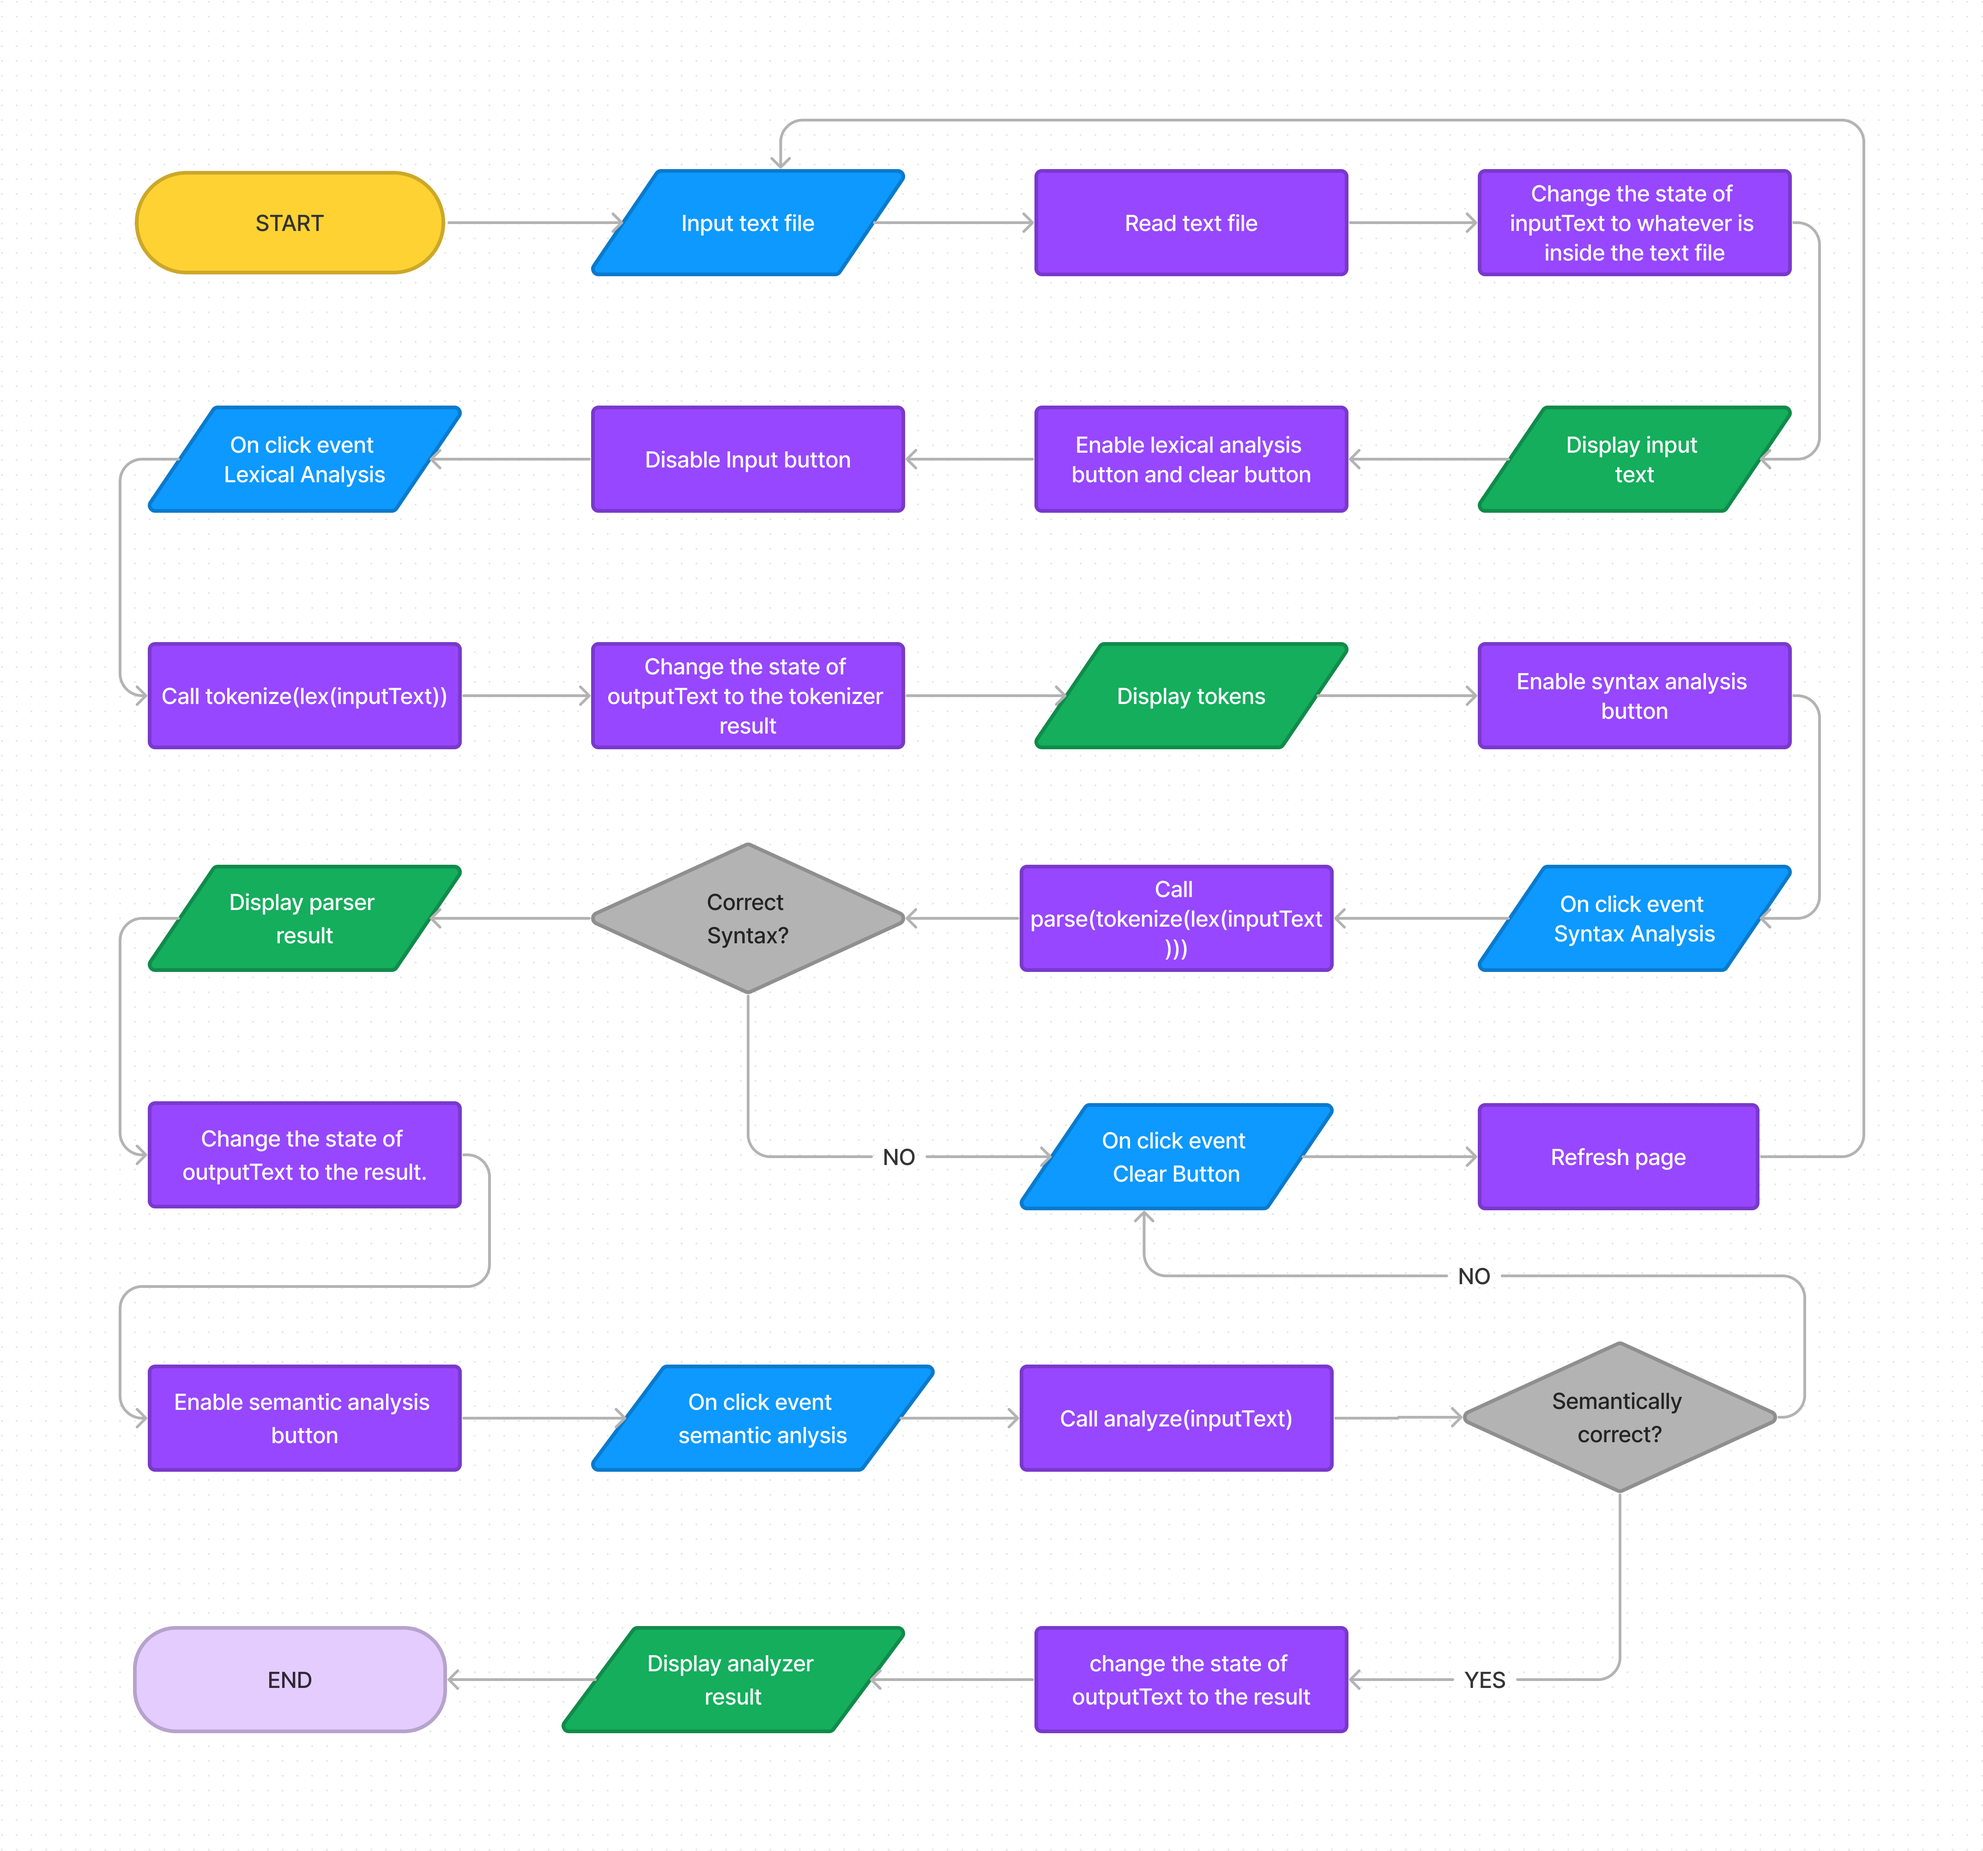
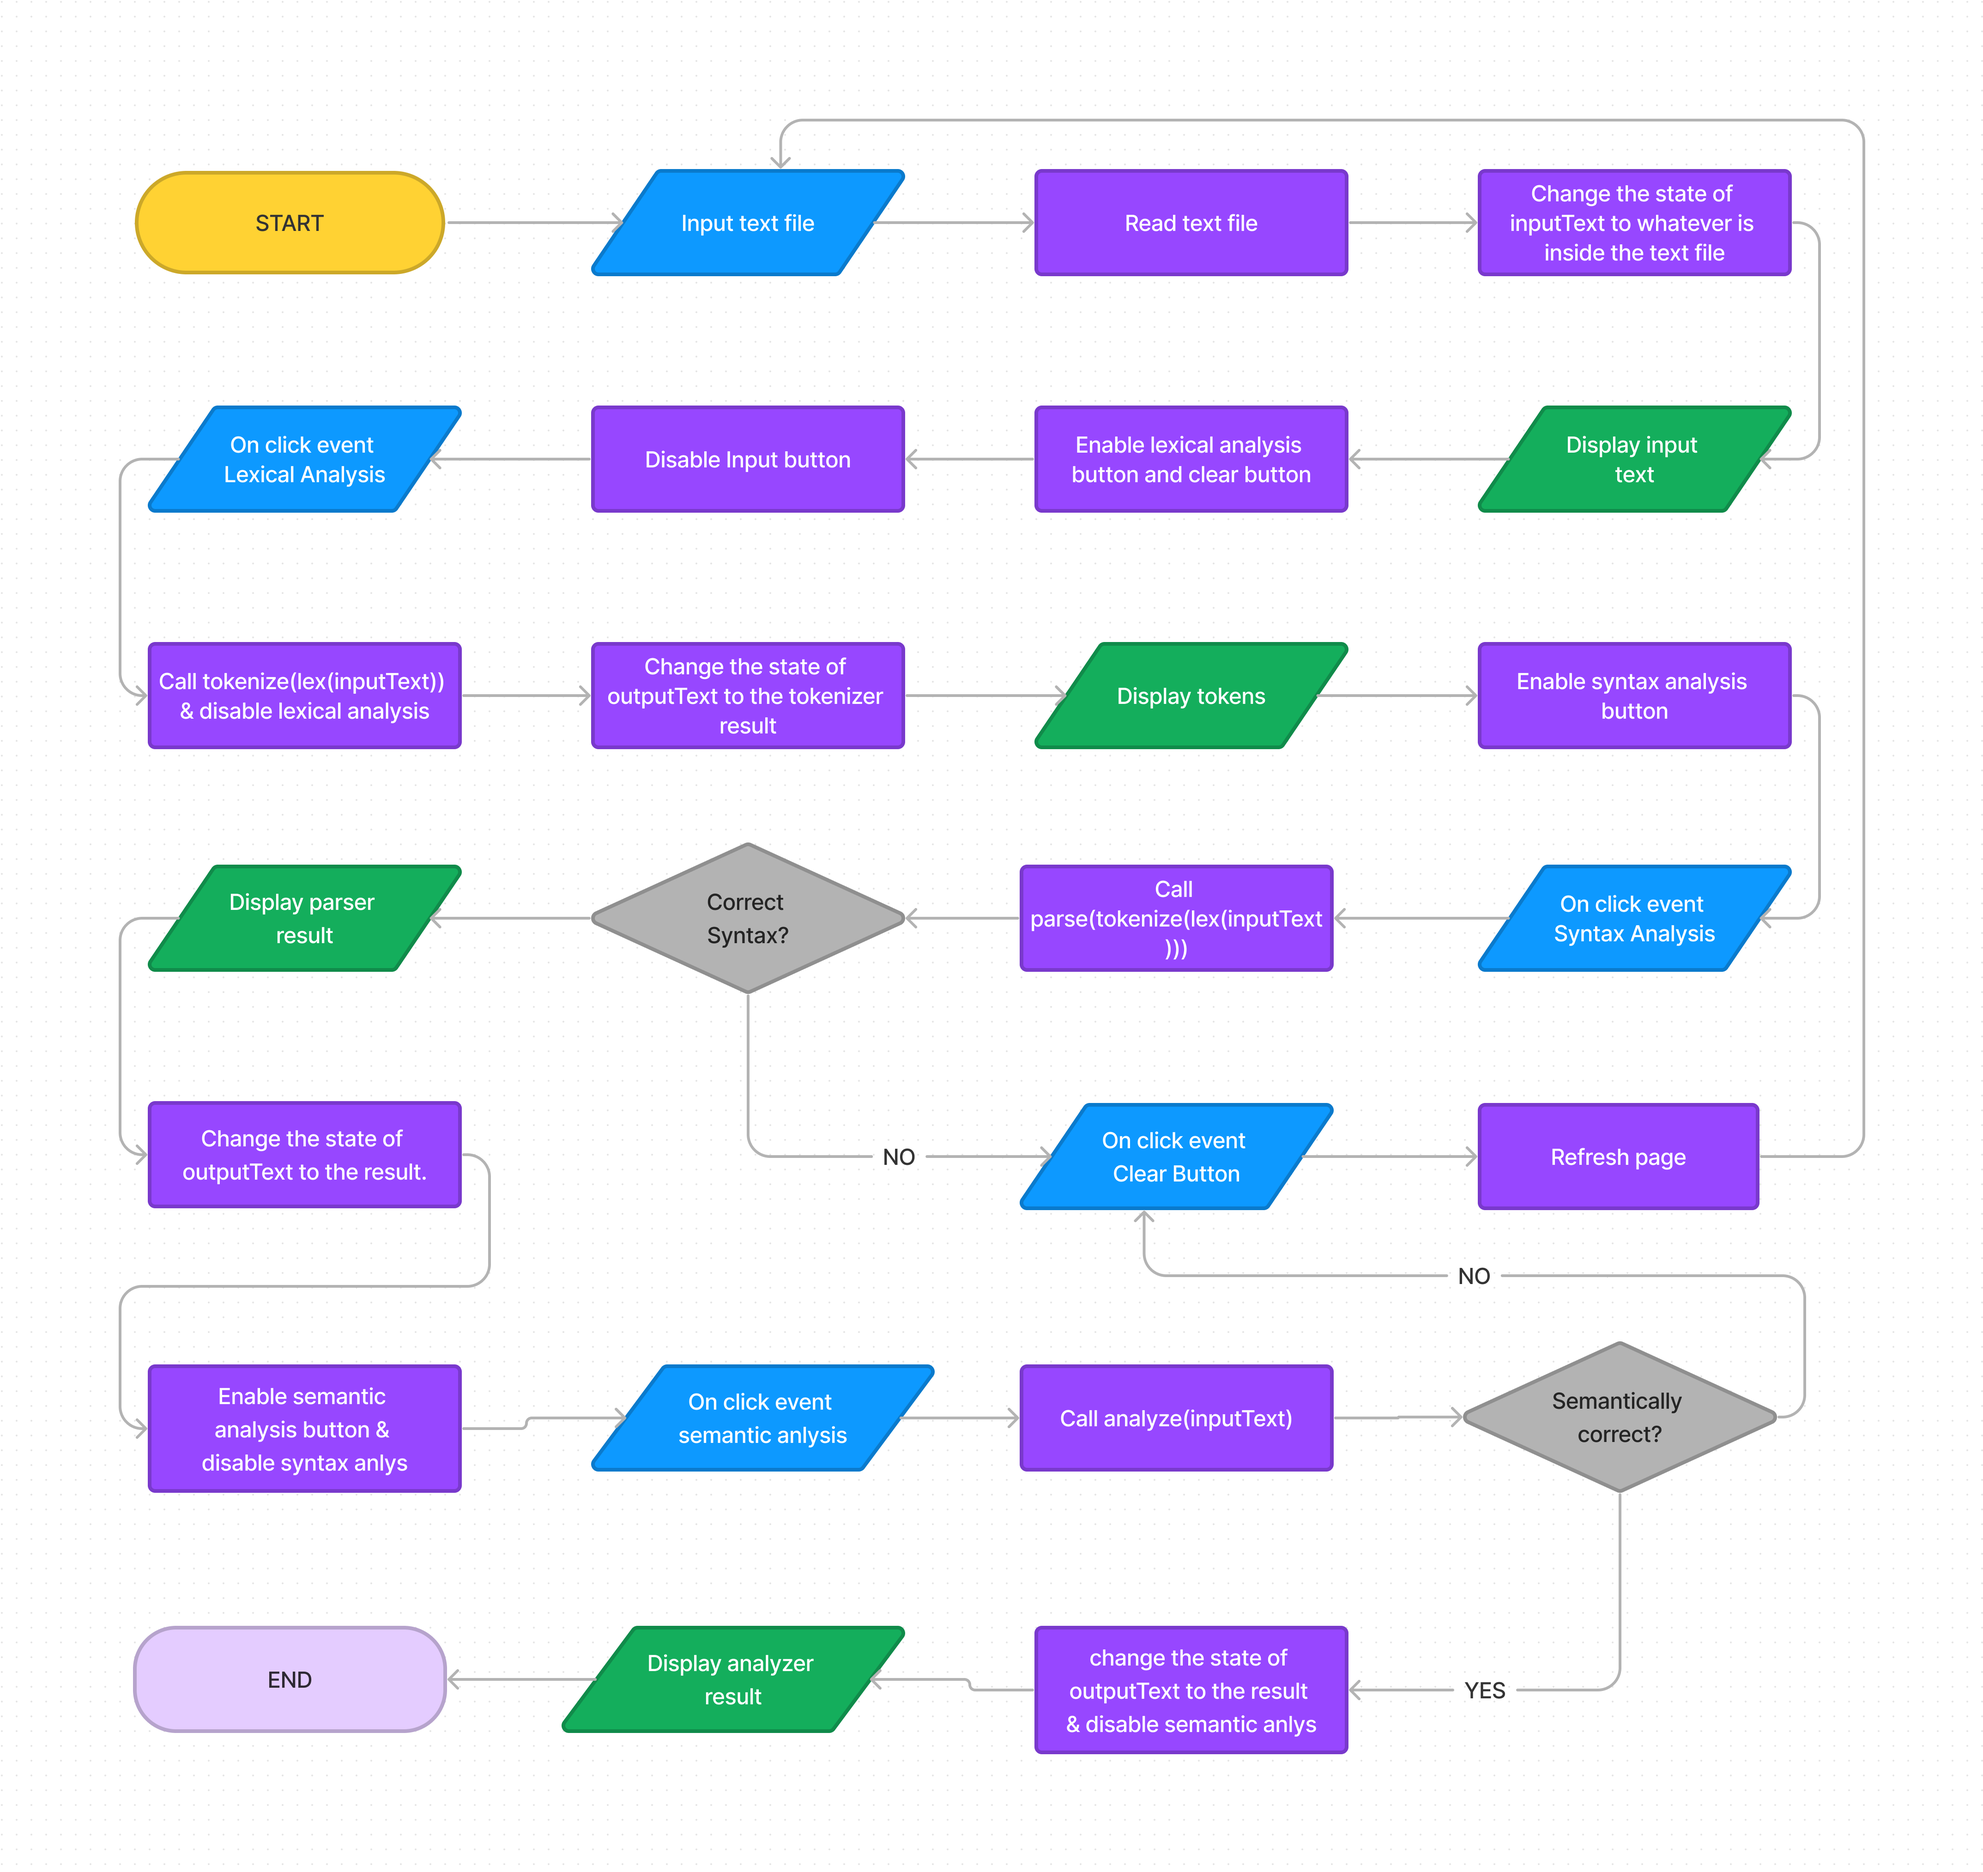
add feature to disable buttons on success, update preview and flowdchart

diff --git a/src/components/Home.jsx b/src/components/Home.jsx
@@ -30,6 +30,7 @@ class Home extends Component {
       toggleInput: true,
       toggleClear: "disabled",
       isFile: false,
+      toggleTextField: false,
     };
   }
 
@@ -44,6 +45,7 @@ class Home extends Component {
         toggleInput: false,
         toggleClear: "contained",
         isFile: true,
+        toggleTextField: true,
       });
     };
     reader.readAsText(e.target.files[0]);
@@ -58,6 +60,7 @@ class Home extends Component {
             <TextField
               variant="outlined"
               placeholder={'String str = "Hello World !";'}
+              disabled={this.state.toggleTextField}
               fullWidth
               label="Enter single line code"
               margin="normal"
@@ -67,6 +70,8 @@ class Home extends Component {
                   toggleTokenizer: "contained",
                   toggleClear: "contained",
                   toggleInput: false,
+                  toggleParser: "disabled",
+                  toggleAnalyzer: "disabled",
                 });
               }}
             />
@@ -113,6 +118,7 @@ class Home extends Component {
                         lex(this.state.inputText, this.state.isFile)
                       ),
                       toggleParser: "contained",
+                      toggleTokenizer: "disabled",
                     })
                   }
                 >
@@ -141,7 +147,10 @@ class Home extends Component {
                     parse(
                       tokenize(lex(this.state.inputText, this.state.isFile))
                     ) === true
-                      ? this.setState({ toggleAnalyzer: "contained" })
+                      ? this.setState({
+                          toggleAnalyzer: "contained",
+                          toggleParser: "disabled",
+                        })
                       : this.setState({ toggleAnalyzer: "disabled" });
                   }}
                 >
@@ -165,6 +174,12 @@ class Home extends Component {
                       )
                         ? "This is semantically correct!"
                         : "This is semantically incorrect!",
+                      toggleAnalyzer: analyze(
+                        this.state.inputText,
+                        this.state.isFile
+                      )
+                        ? "disabled"
+                        : "contained",
                     });
                   }}
                 >
